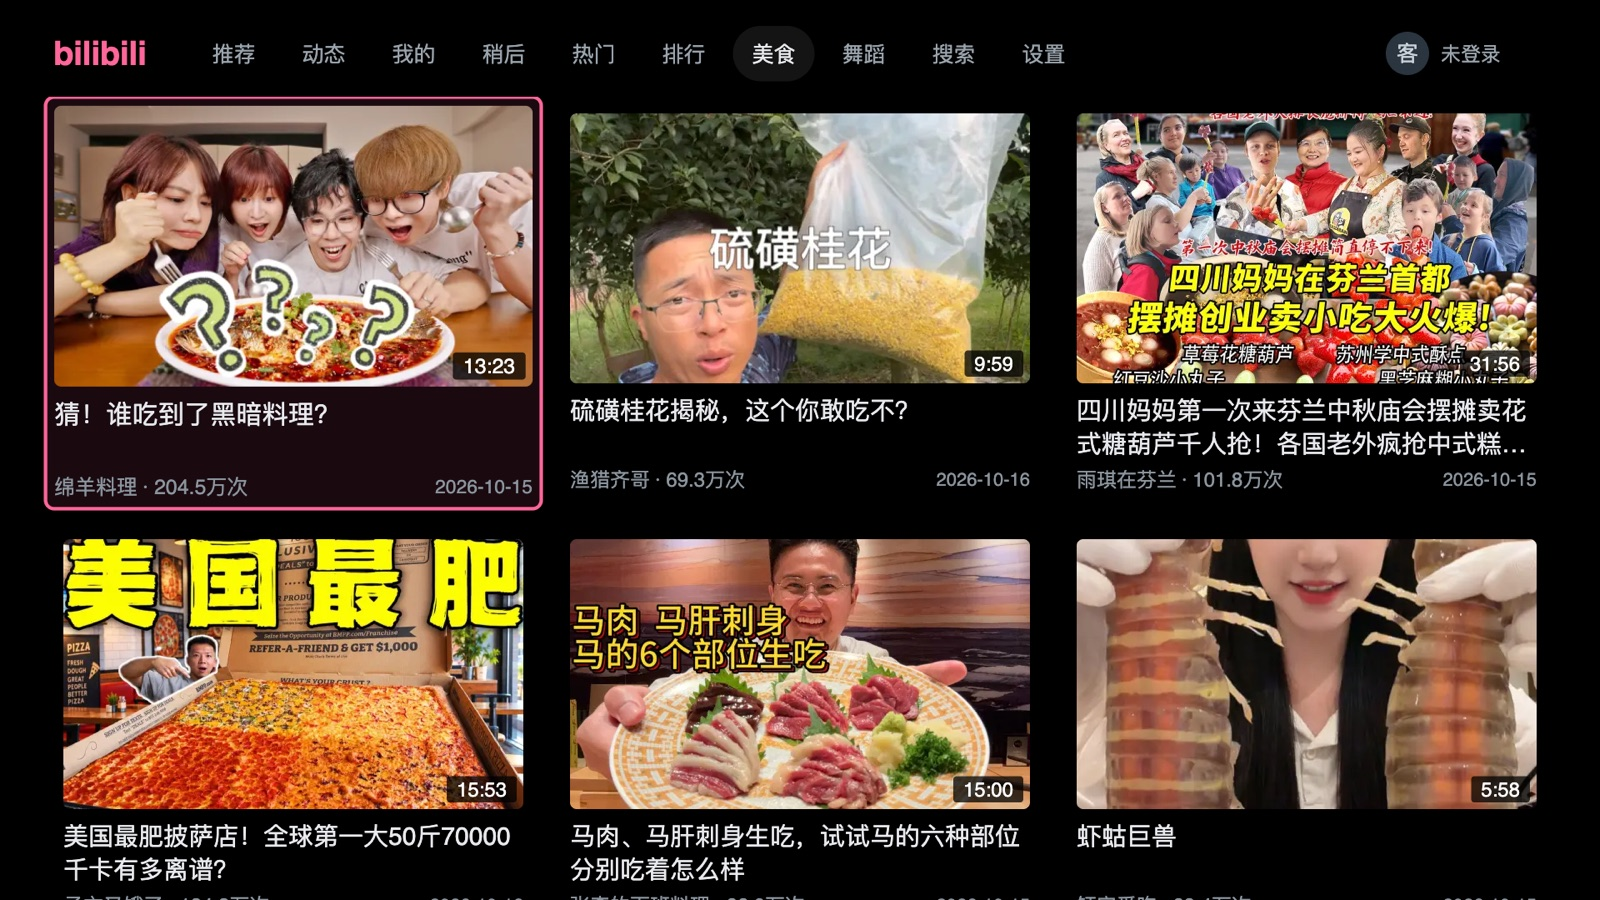
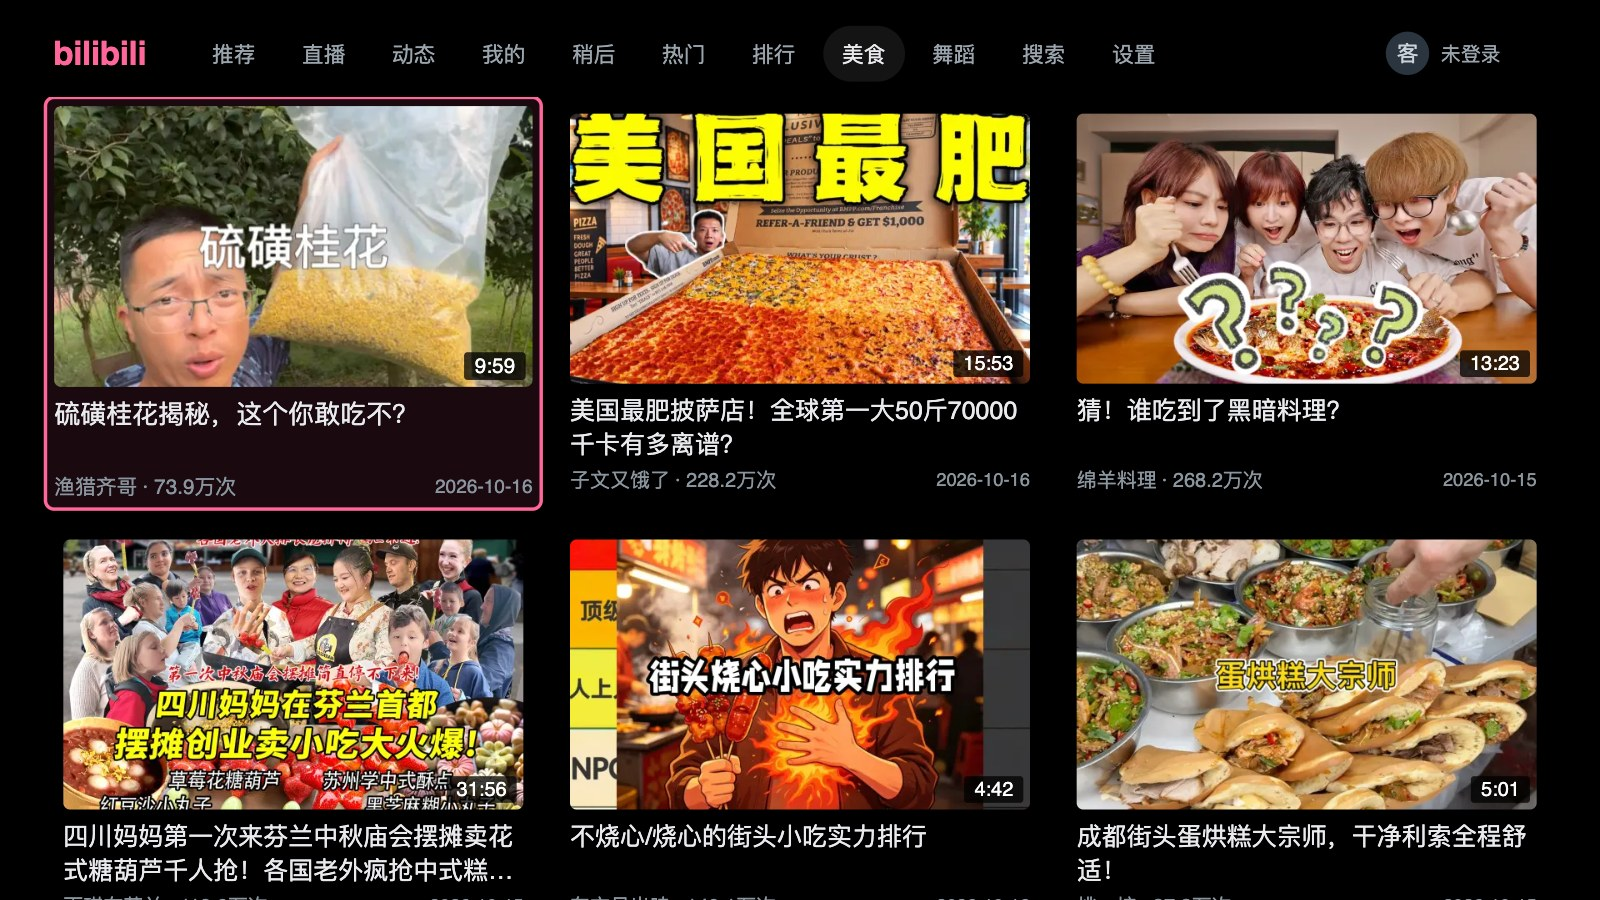
README：首页、搜索截图重拍（顶栏有了直播），加上直播列表和设置里的顶栏两张；readme-shots.mjs 能拍这四张、能只拍几张
Claude-Session: https://claude.ai/code/session_01SSm6jujiXp2p8KRvnBjhcj

diff --git a/CLAUDE.md b/CLAUDE.md
@@ -605,7 +605,8 @@ tools/
   update-verify.mjs   自更新：签名、篡改、旧版本、shell 太新、标坏，以及 boot.js 在每种本地状态下选对代码；卡发布
   update-e2e.mjs      自更新在桌面浏览器里走一遍真的启动（临时钥匙，不碰 bilibili），不在 check.sh 里
   update-release.mjs  打更新包、签名，写 update/manifest.json 和 update/bundle-<版本>.json
-  readme-shots.mjs    README 的弹幕画面、面板、拖动、设置页截图（桌面浏览器、未登录、会连哔哩哔哩，跑一次就好），先出到 dist/ 挑
+  readme-shots.mjs    README 的截图（首页、搜索、弹幕、面板、设置、直播、顶栏；SHOTS=01,02 只拍几张；桌面浏览器、未登录、
+                      会连哔哩哔哩，跑一次就好），先出到 dist/readme-shots 挑过再放进 docs/screenshots
   update-key.mjs      生成签名钥匙（只在换钥匙时用；--show 查对不对得上）
   danmaku-verify.mjs  弹幕：解析、去重、轨道不重叠；--browser 在桌面浏览器里量帧耗时；卡发布（node 那部分）
                       （电视上的帧耗时用 deploy.sh --dmperf 量，见「弹幕」）

diff --git a/README.en.md b/README.en.md
@@ -25,6 +25,8 @@ what you half-watched on the phone is under the cursor when the TV comes on.
 | Press down while playing for the description, speed, danmaku, parts / collection and related videos — **the video keeps running**, with the danmaku moved up above the panel; like / coin / favourite and comments are here too | Comments and replies beside the video, which keeps playing |
 | ![Settings](docs/screenshots/06-settings.jpg) | ![Search](docs/screenshots/02-search.jpg) |
 | Settings: autoplay, subtitles, danmaku, quality cap, clearing watch history, self-update, and cards per row to suit the TV and the sofa | Search, with the TV's own Chinese IME one button away |
+| ![Live](docs/screenshots/07-live.jpg) | ![Top bar](docs/screenshots/08-bar.jpg) |
+| Live: the streamers you follow who are on come first, then the whole site by popularity; inside, up and down change room like channels | Your own top bar: pick a tab up and move it left or right, take it off with down, add from the row below with one press |
 
 ## Will it run on my TV
 

diff --git a/README.md b/README.md
@@ -24,6 +24,8 @@
 | 播放中按下键拉出简介、倍速、弹幕、分 P / 合集与相关推荐，**视频不停**，弹幕挪到面板上方接着飘；点赞、投币、收藏和看评论也在这里 | 边看边读评论和楼中楼，视频缩到一边接着播 |
 | ![设置](docs/screenshots/06-settings.jpg) | ![搜索](docs/screenshots/02-search.jpg) |
 | 设置：自动播放、字幕、弹幕、画质上限、清空观看记录、自动更新，每行几个视频按电视大小和离沙发多远来选 | 搜索，可切到电视自带的中文输入法 |
+| ![直播](docs/screenshots/07-live.jpg) | ![顶栏](docs/screenshots/08-bar.jpg) |
+| 直播：你关注的主播在播的排最前，后面是全站按人气；进去之后上下键换直播间，像换台 | 顶栏自己排：拿起一个页签左右挪、下键拿掉，下面那排按一下就加上 |
 
 ## 我的电视能装吗
 
